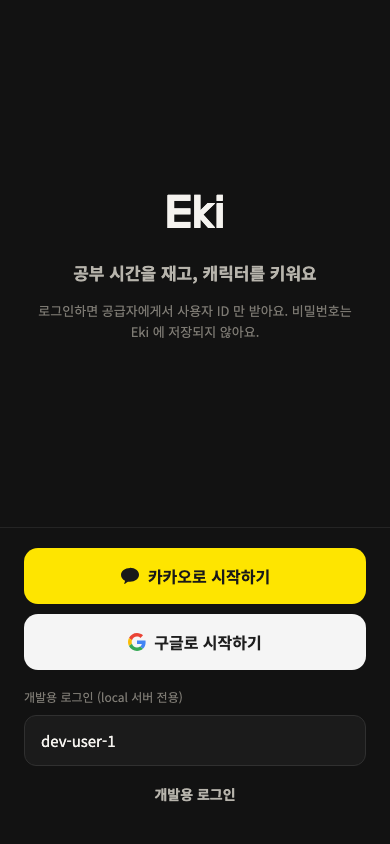
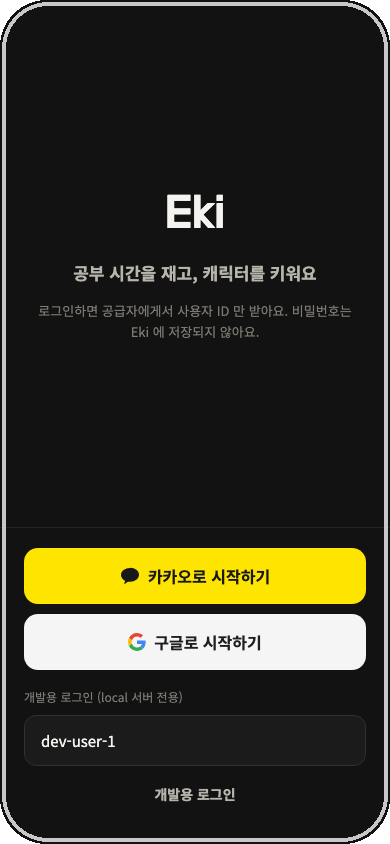
fix: 이미지 테두리를 CSS 대신 픽셀로 직접 그린다
GitHub 마크다운 렌더러가 <img style=""> 를 지워버려서 테두리가 안 보였다.
이제 테두리·둥근 모서리를 이미지 자체에 구워 넣는다.

Changed region(s): [[0.0, 0.0, 1.0, 1.0]]

diff --git a/profile/README.md b/profile/README.md
@@ -1,6 +1,6 @@
 <div align="center">
 
-<img src="./assets/eki-icon.png" width="120" height="120" alt="Eki" style="border-radius:28px;border:1px solid #d9d9d9;" />
+<img src="./assets/eki-icon.png" width="120" height="120" alt="Eki" />
 
 # Eki 에키
 
@@ -61,24 +61,24 @@
 <table>
 <tr>
 <td align="center" width="33%">
-<img src="./assets/design/login.png" width="200" style="border-radius:16px;border:1px solid #d9d9d9;" /><br/>로그인
+<img src="./assets/design/login.png" width="200" /><br/>로그인
 </td>
 <td align="center" width="33%">
-<img src="./assets/design/home.png" width="200" style="border-radius:16px;border:1px solid #d9d9d9;" /><br/>홈
+<img src="./assets/design/home.png" width="200" /><br/>홈
 </td>
 <td align="center" width="33%">
-<img src="./assets/design/quests.png" width="200" style="border-radius:16px;border:1px solid #d9d9d9;" /><br/>퀘스트
+<img src="./assets/design/quests.png" width="200" /><br/>퀘스트
 </td>
 </tr>
 <tr>
 <td align="center" width="33%">
-<img src="./assets/design/statistics.png" width="200" style="border-radius:16px;border:1px solid #d9d9d9;" /><br/>통계
+<img src="./assets/design/statistics.png" width="200" /><br/>통계
 </td>
 <td align="center" width="33%">
-<img src="./assets/design/card.png" width="200" style="border-radius:16px;border:1px solid #d9d9d9;" /><br/>공부 카드
+<img src="./assets/design/card.png" width="200" /><br/>공부 카드
 </td>
 <td align="center" width="33%">
-<img src="./assets/design/team.png" width="200" style="border-radius:16px;border:1px solid #d9d9d9;" /><br/>팀
+<img src="./assets/design/team.png" width="200" /><br/>팀
 </td>
 </tr>
 </table>
